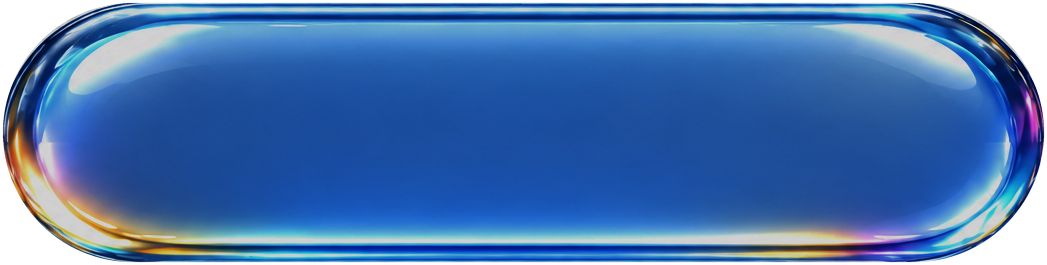
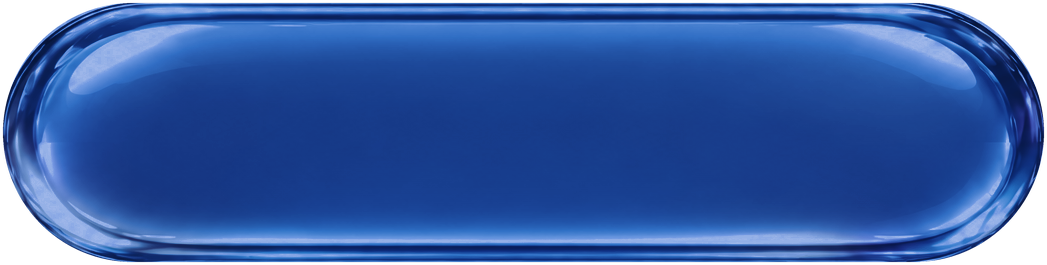
Tone the feature chips onto the nav's palette
The chips were cut from the same render as the sign-in pill but skipped the
nav's colour ramp, so they read as a brighter, cyan-leaning blue with orange
caps beside the header. They now take the nav's tone and colour passes value
for value.

diff --git a/scripts/build-chip-glass.py b/scripts/build-chip-glass.py
@@ -1,24 +1,17 @@
-"""Cut the chip glass pill out of its render, rebuild its alpha, and tone it
-down for small type.
+"""Cut the chip glass pill out of its render, rebuild its alpha, and put it on
+the header's palette.
 
 Sibling of build-nav-glass.py, and the same problem: `public/Assets/glass-pill.png`
 is an RGB render with its transparency baked in as a checkerboard, so there is
 no alpha to use and the one that matters has to be drawn here.
 
-Two differences from the nav pill, both because a chip is small and carries
-text on top of it:
-
-1. It is darkened harder (gamma 2.3 against the nav's 1.8). At full strength
-   the render is a bright cyan slab; white label text on it fails to separate,
-   and a row of them reads as a row of buttons rather than as chips in a
-   section. The rim and the speculars survive the gamma, which is the point of
-   a gamma rather than a multiply -- it pulls the midtones down and leaves the
-   near-white edges alone.
-
-2. Its chromatic fringes are kept. The nav pill blends most of the way onto the
-   header palette because it is a large flat surface where stray warm edges
-   read as a colour cast; at chip size those same fringes are the only thing
-   saying "glass" rather than "blue capsule".
+The tone and colour passes are the nav's, value for value, so a chip is the
+same blue as the header's islands and sign-in button (which is cut from this
+same render). An earlier version darkened harder (gamma 2.3) and skipped the
+colour ramp to keep the chromatic fringes; that left the chips a brighter,
+cyan-leaning blue with orange caps that did not match the nav. See
+build-nav-glass.py for why each pass works the way it does, and keep GAMMA,
+GAIN, BLEND and RAMP in step with it.
 
 Usage: python3 scripts/build-chip-glass.py
 """
@@ -29,9 +22,28 @@ OUT = "public/Assets/chip-glass-pill.png"
 # The pill's bounds in the source, found by looking for saturated pixels: the
 # checkerboard behind it is neutral, the pill is not.
 BOX = (246, 380, 1293, 645)
-GAMMA, GAIN = 2.3, 0.82
+GAMMA, GAIN = 1.8, 0.9
+BLEND = 0.85
 INSET = 3  # drops the checkerboard fringe hugging the silhouette
 SS = 4  # mask supersampling, for a clean antialiased cap edge
+
+# Same stops as build-nav-glass.py, lifted from --glass-nav-sheen.
+RAMP = [
+    (0.00, (0x05, 0x0F, 0x28)),
+    (0.32, (0x0F, 0x28, 0x73)),
+    (0.62, (0x27, 0x65, 0xC0)),
+    (0.86, (0x62, 0x8C, 0xE1)),
+    (1.00, (0xFF, 0xFF, 0xFF)),
+]
+
+
+def ramp_at(t):
+    for (a, ca), (b, cb) in zip(RAMP, RAMP[1:]):
+        if a <= t <= b:
+            f = (t - a) / (b - a)
+            return tuple(round(ca[k] + (cb[k] - ca[k]) * f) for k in range(3))
+    return RAMP[-1][1]
+
 
 src = Image.open(SRC).convert("RGB").crop(BOX)
 w, h = src.size
@@ -47,7 +59,13 @@ mask = mask.resize((w, h), Image.LANCZOS)
 lut = [min(255, round(((i / 255) ** GAMMA) * GAIN * 255)) for i in range(256)]
 toned = src.point(lut * 3)
 
-out = toned.convert("RGBA")
+table = [ramp_at(i / 255) for i in range(256)]
+lum = toned.convert("L")
+mapped = Image.merge(
+    "RGB", [lum.point([table[i][k] for i in range(256)]) for k in range(3)]
+)
+
+out = Image.blend(toned, mapped, BLEND)
 out.putalpha(mask)
 out.save(OUT)
 print(f"{OUT}  {w}x{h}  cap radius {h // 2}")
